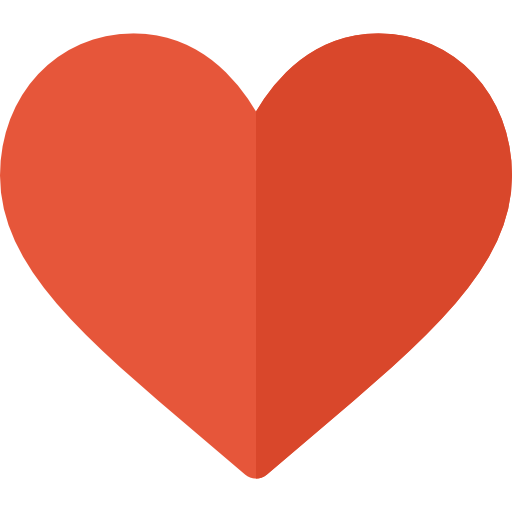
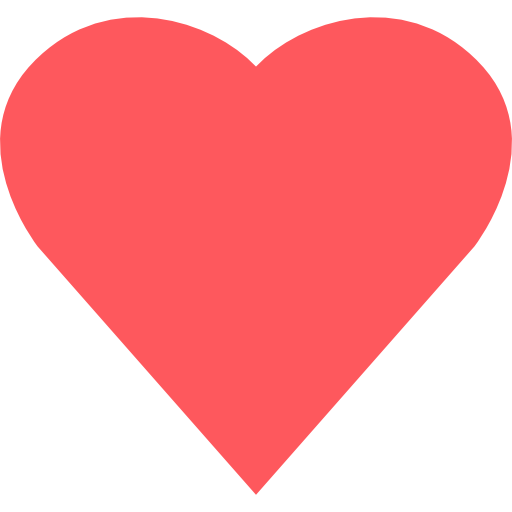
mics and like

diff --git a/main.js b/main.js
@@ -84,6 +84,8 @@ var pictureProfileArray = [{
 var screenStack = [];
 var picture_index = 0;
 var count = 0;
+var mic1 = 0, mic2 = 2, mic3 = 0, mic4 = 0;
+var mics = [mic1, mic2, mic3, mic4];
 var numberPostFtg = 0;
 var block = 0;
 
@@ -403,7 +405,7 @@ function scrollWheelFinish(event) {
 function updatePicture() {
     document.getElementById("imageShown").src = multimedia_storage[picture_index]['photo'];
     document.getElementById("comment").innerHTML = multimedia_storage[picture_index]['description'];
-    document.getElementById("likeButton").src = (multimedia_storage[picture_index]['liked'] == true ? 'icons/heart2.png' : 'icons/heart1.png')
+    document.getElementById("likeButton").src = (multimedia_storage[picture_index]['liked'] == true ? 'icons/heart.png' : 'icons/meme.svg')
 }
 
 
@@ -417,6 +419,7 @@ function createNotifications() {
 function goToPop(i){
     location.href = '#' + pictureProfileArray[i+numberPostFtg].divName;
 }
+
 function createNotificationsPops(){
     let profiletable = document.getElementById("watchBorder");   
     for (i = 0; i < pictureProfileArray.length; i++) {
@@ -446,7 +449,9 @@ function createMenuMessage(index){
             messages += "<div class='containerM darkerM'><p class='messageP' id='message2'>" + profiles[index].messages[i] + "</p></div>";  
         }
     }
-    messages += "<div id='box' class='boxMessage'><img id='micmessage' src='icons/micoff.png'><input type='text' id='" + profiles[index].divName + "Input' class='sendmessage'></input><img src='icons/send.png' id='sendimage' onclick=" + "sendMessage('"+ profiles[index].divName  +"')" +'></div>'
+    let name = profiles[index].divName + 'Input';
+    console.log(name);
+    messages += "<div id='box' class='boxMessage'><img id='micmessage' onclick=" + '"' + "microphoneOn('" + name + "','micmessage', 4)" + '"' + "src='icons/micoff.png'><input type='text' id='" + profiles[index].divName + "Input' class='sendmessage'></input><img src='icons/send.png' id='sendimage' onclick=" + "sendMessage('"+ profiles[index].divName  +"')" +'></div>'
     document.getElementById('messageBox').innerHTML = messages + "</div>";
 }
 
@@ -530,10 +535,10 @@ function cancelChange() {
 function likeAction(buttonElement) {
     switch (multimedia_storage[picture_index]['liked']) {
         case true:
-            buttonElement.src = 'icons/heart1.png'
+            buttonElement.src = 'icons/heart.png'
             break;
         case false:
-            buttonElement.src = 'icons/heart2.png'
+            buttonElement.src = 'icons/meme.svg'
     }
     multimedia_storage[picture_index]['liked'] = !multimedia_storage[picture_index].liked;
 }
@@ -639,4 +644,17 @@ function updateValue(value) {
 
 function triggerBluetooths(value) {
     $(document.getElementsByClassName('bluetooth-btn')).prop('checked', value)
+}
+
+function microphoneOn(inputname, value, numbermic){
+    if(!mics[numbermic-1]){
+        console.log(inputname);
+        document.getElementById(inputname).focus();
+        document.getElementById(value).style.backgroundColor = "#E84855";
+        mics[numbermic-1] = 1;
+        return;
+    }
+    document.getElementById(value).style.backgroundColor = "white";
+    mics[numbermic-1] = 0;
+    document.getElementById(inputname).blur();
 }

diff --git a/main.css b/main.css
@@ -191,7 +191,6 @@
 }
 
 #tablePhotos {
-    z-index: -1;
     position: relative;
 }
 
@@ -348,11 +347,6 @@
     color: red;
 }
 
-#mic3:active{
-    background-color: #E84855;
-    border: 2px solid black;
-}
-
 #cancelbtn {
     background-color: #B22222;
     border: 2px solid #B22222;
@@ -431,7 +425,6 @@
 }
 
 #messatext {
-    z-index: 1;
     margin-top: 0%;
     padding-top: 8%;
     margin-bottom: 2%;
@@ -440,7 +433,6 @@
 }
 
 #messaperson {
-    z-index: 1;
     line-height: 0%;
     padding-left: 5%;
 }
@@ -451,7 +443,6 @@
 }
 
 #messageList {
-    z-index: -1;
     position: relative;
 }
 
@@ -461,6 +452,7 @@
 
 #micmessage {
     padding: 1%;
+    padding-bottom: 3%;
     margin-top: 8%;
     width: 10%;
     height: 10%;
@@ -470,21 +462,17 @@
 
 }
 
-#micmessage:active {
-    background-color: red;
-    border-top: 1px solid red;
-    border-bottom: 1px solid red;
-
-}
-
 #notifications {
     width: 100%;
 }
 
 #notiftext {
-    margin-top: 8%;
+    z-index: 0;
+    margin-top: 0%;
+    padding-top: 8%;
     margin-bottom: 2%;
     padding-left: 5%;
+    background-color: white;
 }
 
 
@@ -650,10 +638,6 @@ input:checked + .slider:before {
     margin-top: -5%;
 }
 
-.mic:active{
-    background-color: #E84855;
-    border: 2px solid black;
-}
 
 .mic {
     float: right;
@@ -944,7 +928,6 @@ input:checked + .slider:before {
   background-color: #f1f1f1;
   border-radius: 4%;
   position: relative;
-  z-index: -1;
 }
 
 .lighterM {
@@ -991,7 +974,6 @@ input:checked + .slider:before {
 
 
 #photoLabel {
-    z-index: 1;
     margin-top: 0%;
     padding-top: 6%;
     margin-bottom: 0%;
@@ -1000,11 +982,6 @@ input:checked + .slider:before {
     background-color: white;
 }
 
-#box {
-    z-index: 2;
-}
-
-
 #messageContent {
     position: relative;
 }
@@ -1012,7 +989,6 @@ input:checked + .slider:before {
 #zindex {
     padding-bottom: 3%;
     padding-top: 1%;
-    z-index: 1;
     background-color: white;
 }
 

diff --git a/iGo.html b/iGo.html
@@ -1,5 +1,4 @@
 <html>
-
 <head>
     <meta charset="utf-8">
     <title>iGo</title>
@@ -202,7 +201,7 @@
             </div>
             <div id='notificationScreen' style='display: none'>
                 <h1 id="notiftext">Notifications</h1>
-                <div id='notificationsList'>
+                <div id='notificationsList' style="z-index: 1">
                     <table id='notifications'></table>
                 </div>
             	<div id='notificationScreenPop'>
@@ -212,10 +211,10 @@
                 <h1>Edit your profile:</h1>
                 <form id="formprofile">
                     <h2 class="name">Name</h2>
-                    <img id="mic1" class='mic' src="icons/micoff.png">
+                    <img id="mic1" onclick="microphoneOn('input1', 'mic1', 1)" class='mic' src="icons/micoff.png">
                     <input id="input1" class="forminput" type="text" name="nome" maxlength="14">
                     <h2 class="name">Description</h2>
-                    <img id="mic2" id="mic2" class='mic' src="icons/micoff.png">
+                    <label for="input2"><img id="mic2" onclick="microphoneOn('input2', 'mic2', 2)" id="mic2" class='mic' src="icons/micoff.png"></label>
                     <input id='input2' class="forminput" type="text" name="descricao" maxlength="19">
                 </form>
                 <div id='buttons'>
@@ -250,7 +249,7 @@
                 <h3 id="descripttext">Description:</h3>
                 <form id="photodescription">
                     <textarea id="descript" type="text" name="descricaopt"></textarea>
-                    <img id="mic3" src="icons/micoff.png" onclick="recognition.start()" />
+                    <img id="mic3" src="icons/micoff.png" onclick="microphoneOn('descript', 'mic3', 3);recognition.start()"/>
                 </form>
             </div>
             <div id='messageScreen' style='display: none'>
